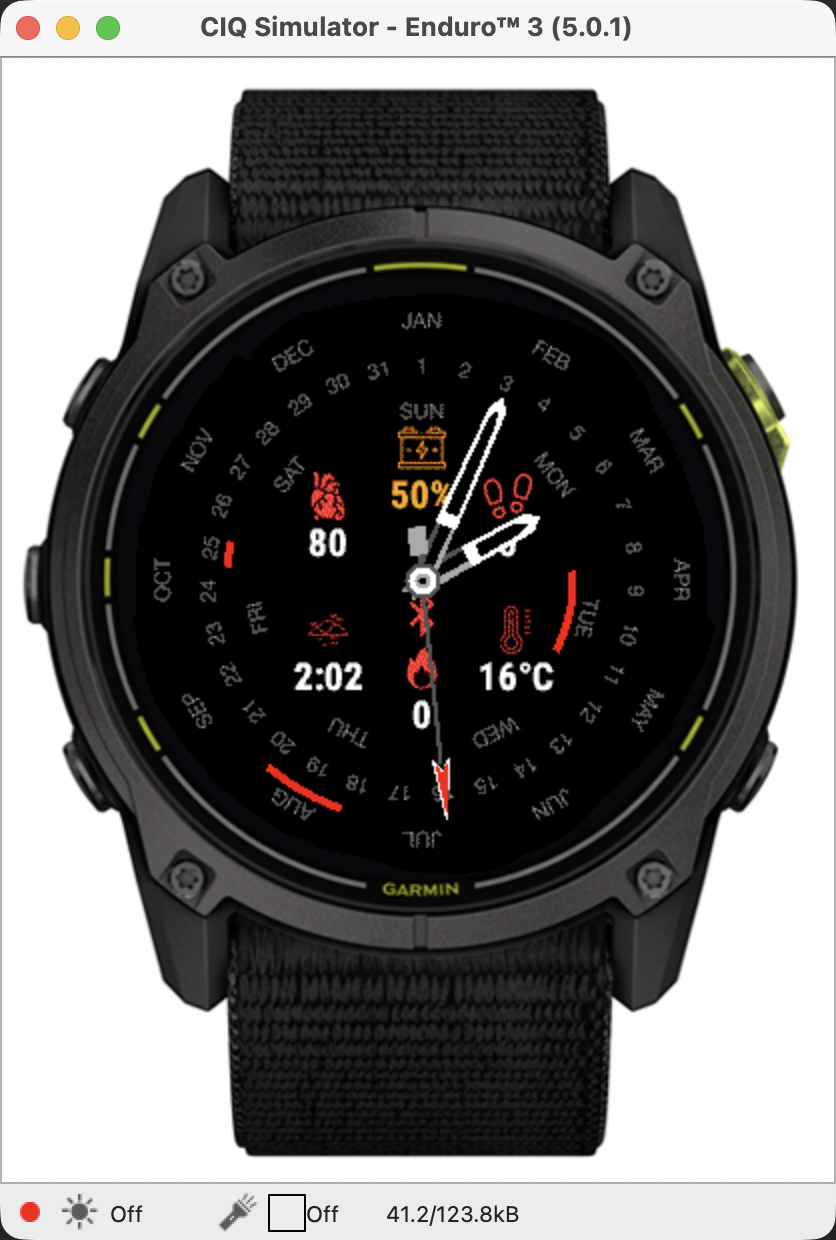
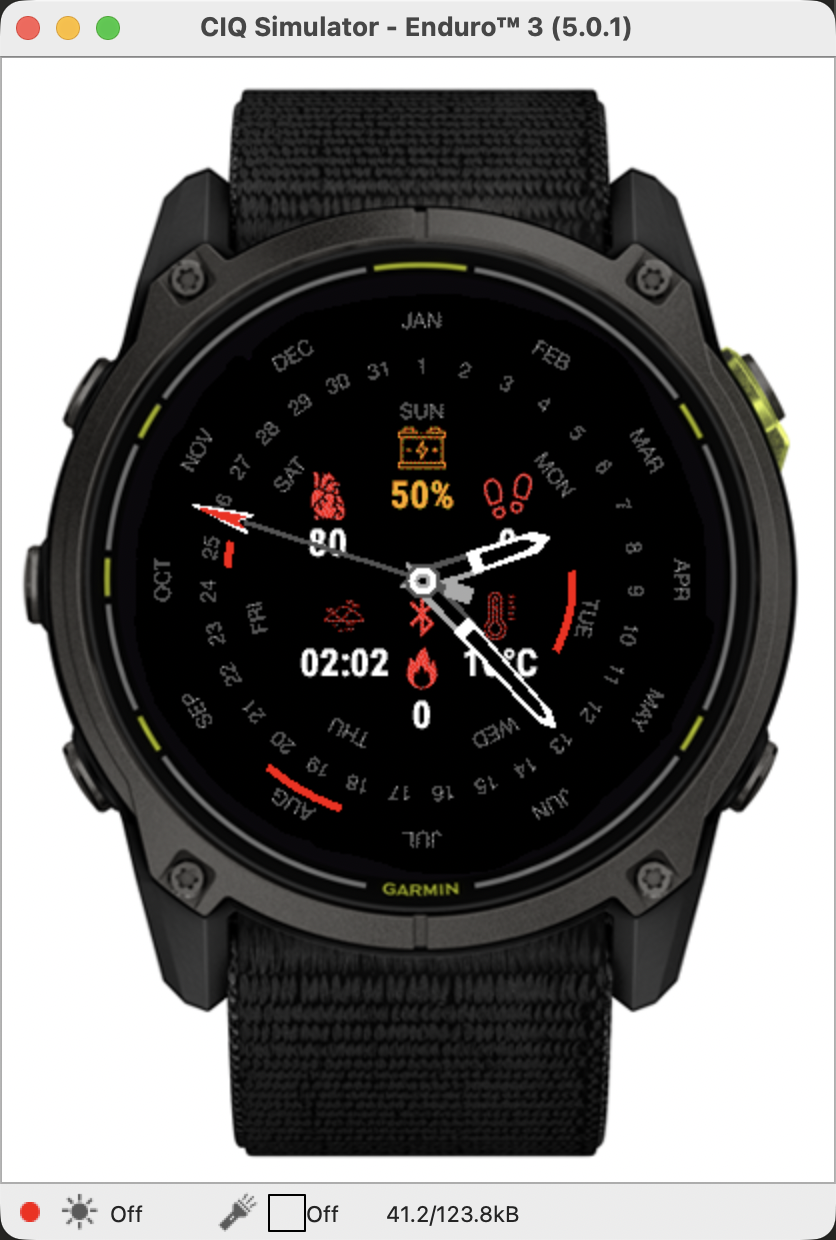
fix: Adjust UI slots and simulator logic
- Prevent horizontal overlap of bottom data slots with weekday arc by pulling them inward

- Standardize Sunrise/Sunset dynamic times to always display HH:MM (zero-padded hour)

- Move simulator lifecycle management fully into run_tests.sh for reliable UI test captures

- Regenerate UI test snapshot reports

Changed region(s): [[0.3421, 0.3065, 0.6842, 0.6742], [0.2177, 0.3984, 0.311, 0.429], [0.9952, 0.0, 1.0, 0.0306]]

diff --git a/run_ui_tests.py b/run_ui_tests.py
@@ -99,9 +99,7 @@ def get_simulator_window_bounds():
 
 report_rows = []
 
-print("Starting Connect IQ Simulator...")
-subprocess.run(["open", os.path.join(SDK_PATH, "bin", "ConnectIQ.app")])
-time.sleep(10) # Give simulator time to boot up initially
+print("Connect IQ Simulator should already be running (managed by run_tests.sh).")
 
 for dev_id, res_info, dev_name in DEVICES:
     print(f"\n📱 Generating Visual UI Snapshot for: {dev_name} ({dev_id})...")
